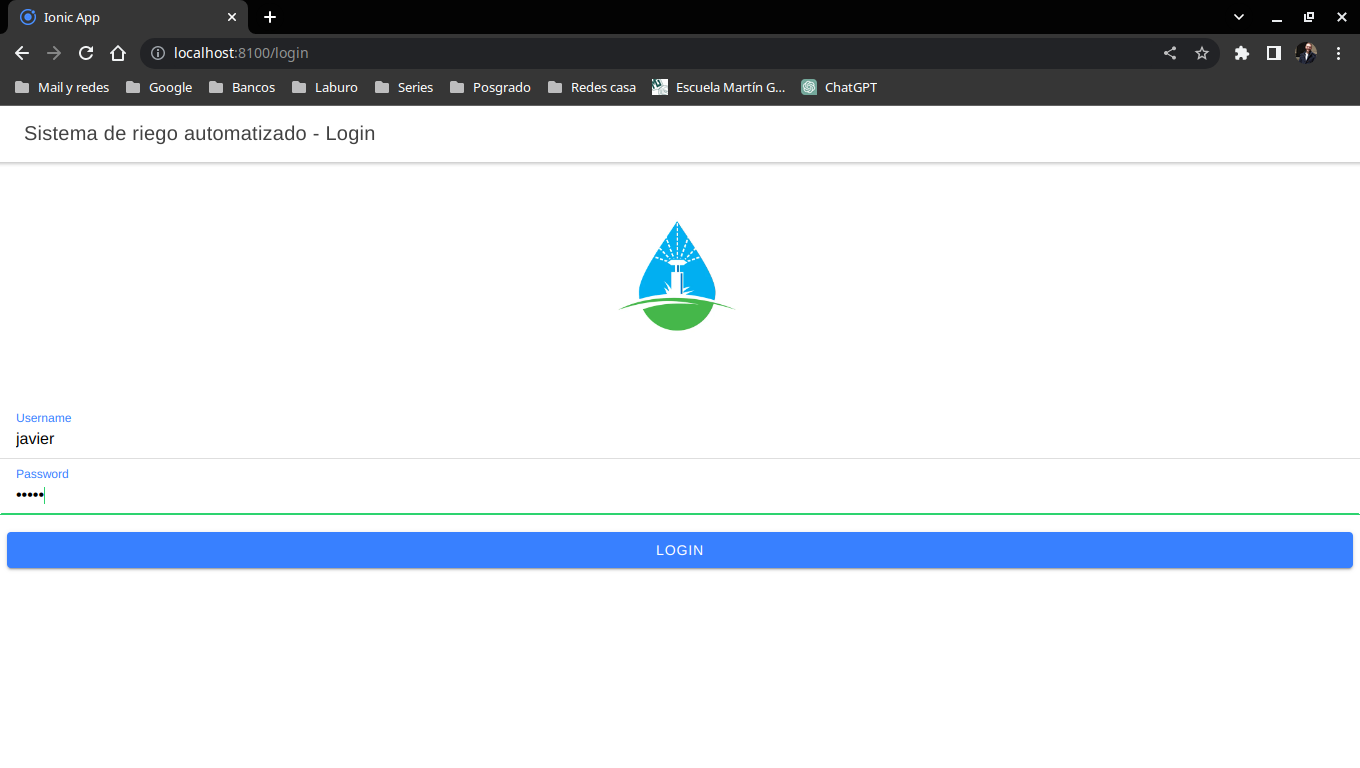
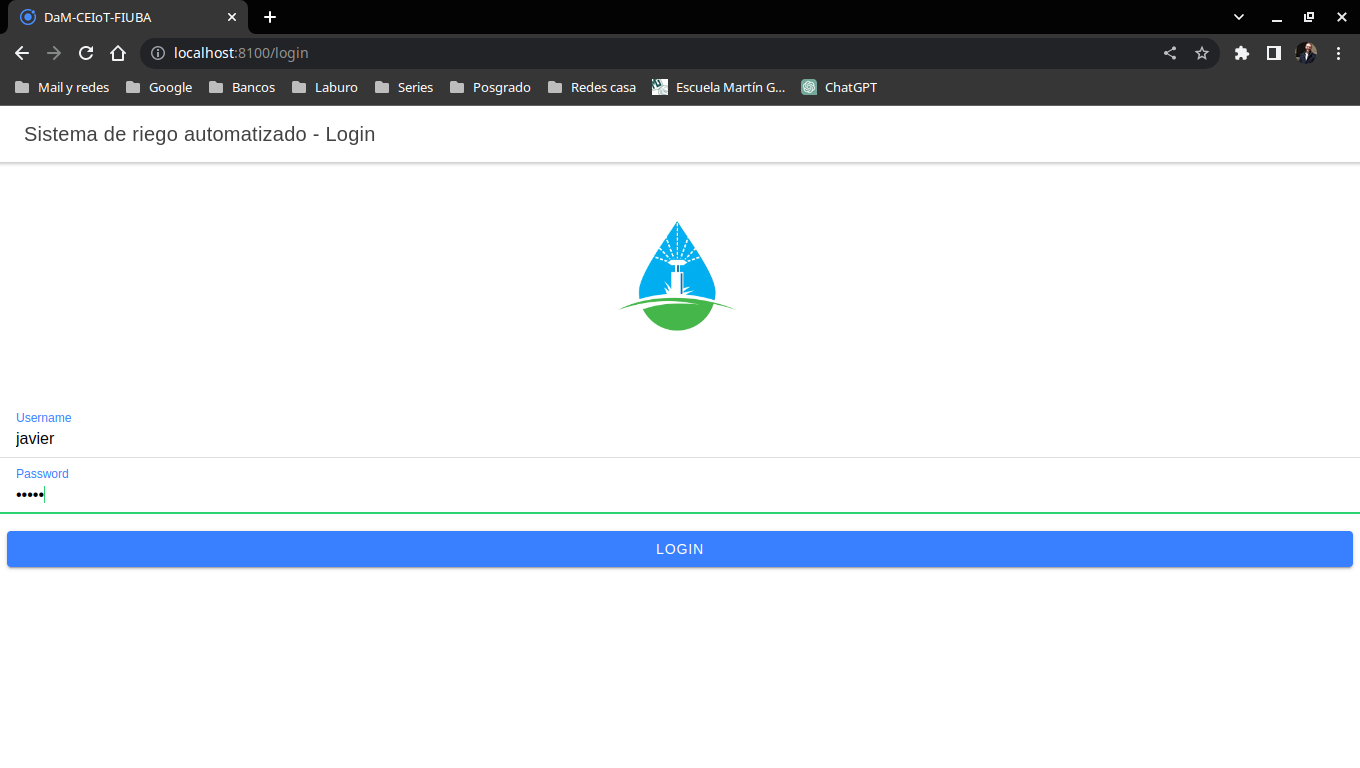
anda grafico

diff --git a/src/frontend/dam/src/app/dispositivo/dispositivo.page.ts b/src/frontend/dam/src/app/dispositivo/dispositivo.page.ts
@@ -6,7 +6,6 @@ import * as Highcharts from 'highcharts';
 require('highcharts/highcharts-more')(Highcharts);
 require('highcharts/modules/solid-gauge')(Highcharts);
 
-
 @Component({
   selector: 'app-dispositivo',
   templateUrl: './dispositivo.page.html',
@@ -22,20 +21,18 @@ export class DispositivoPage implements OnInit  {
   private activatedRoute = inject(ActivatedRoute);
 
   constructor(
-    private deviceService: DispositivoService) {
+    private dispositivoService: DispositivoService) {
       setInterval(()=>{
-        /* console.log("Mediciones nuevas"); */
         const id = this.activatedRoute.snapshot.paramMap.get('id') as string;
-        this.deviceService.postMedicion(parseInt(id, 10), (this.presactual + 5).toString());
-        /* console.log("Cambio el valor del sensor"); */
-        this.refreshChart();
-      },12000);
+        this.dispositivoService.postMedicion(parseInt(id, 10), (this.presactual + 5).toString());
+        this.refrescaChart();
+      },20000);
     }
 
   ngOnInit() {
     const deviceId = this.activatedRoute.snapshot.paramMap.get('id') as string;
     this.dispositivoId = parseInt(deviceId, 10);
-    this.deviceService.getDeviceById(this.dispositivoId).subscribe(data => {
+    this.dispositivoService.getDeviceById(this.dispositivoId).subscribe(data => {
       this.device = data[0];
     });
     this.refrescamedicion();
@@ -46,21 +43,19 @@ export class DispositivoPage implements OnInit  {
   }
 
   abrirElectrovalvula() {
-    this.deviceService.abrirElectrovalvula(this.device.electrovalvulaId);
-    this.refreshChart();
+    this.dispositivoService.abrirElectrovalvula(this.device.electrovalvulaId);
+    this.refrescaChart();
   }
 
   refrescamedicion() {
     const id = this.activatedRoute.snapshot.paramMap.get('id') as string;
-    this.deviceService.getUltMedicion(parseInt(id, 10)).subscribe(data => {
+    this.dispositivoService.getUltMedicion(parseInt(id, 10)).subscribe(data => {
       this.presactual = parseInt(data[0].valor, 10);
     });
   }
 
-  refreshChart() {
-    
+  refrescaChart() {
     this.refrescamedicion();
-    
     this.updateChart();
   }
 

diff --git a/src/backend/index.js b/src/backend/index.js
@@ -89,8 +89,8 @@ app.get('/dispositivos/:id', function(req, res, next) {
     );
 });
 
-app.get('/ultmedicion/:id', function(req, res, next) {
-    pool.query('SELECT * FROM Mediciones m WHERE m.medicionId = (SELECT MAX(medicionId) FROM Mediciones WHERE dispositivoId = ?)',req.params.deviceid,
+app.get('/ultmedicion/:dispid', function(req, res, next) {
+    pool.query('SELECT * FROM Mediciones m WHERE m.medicionId = (SELECT MAX(medicionId) FROM Mediciones WHERE dispositivoId = ?)',req.params.dispid,
         function(err, rta, field) {
             if (err) {
                 res.send(err).status(400);

diff --git a/src/frontend/dam/src/index.html b/src/frontend/dam/src/index.html
@@ -3,7 +3,7 @@
 
 <head>
   <meta charset="utf-8" />
-  <title>Ionic App</title>
+  <title>DaM-CEIoT-FIUBA</title>
 
   <base href="/" />
 
